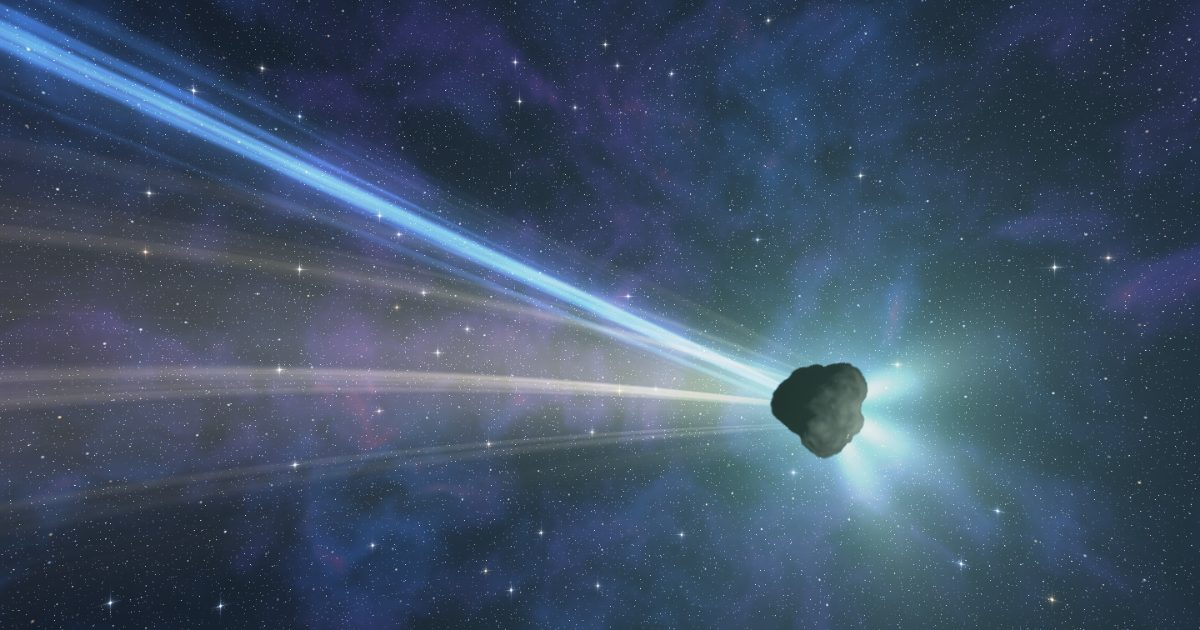
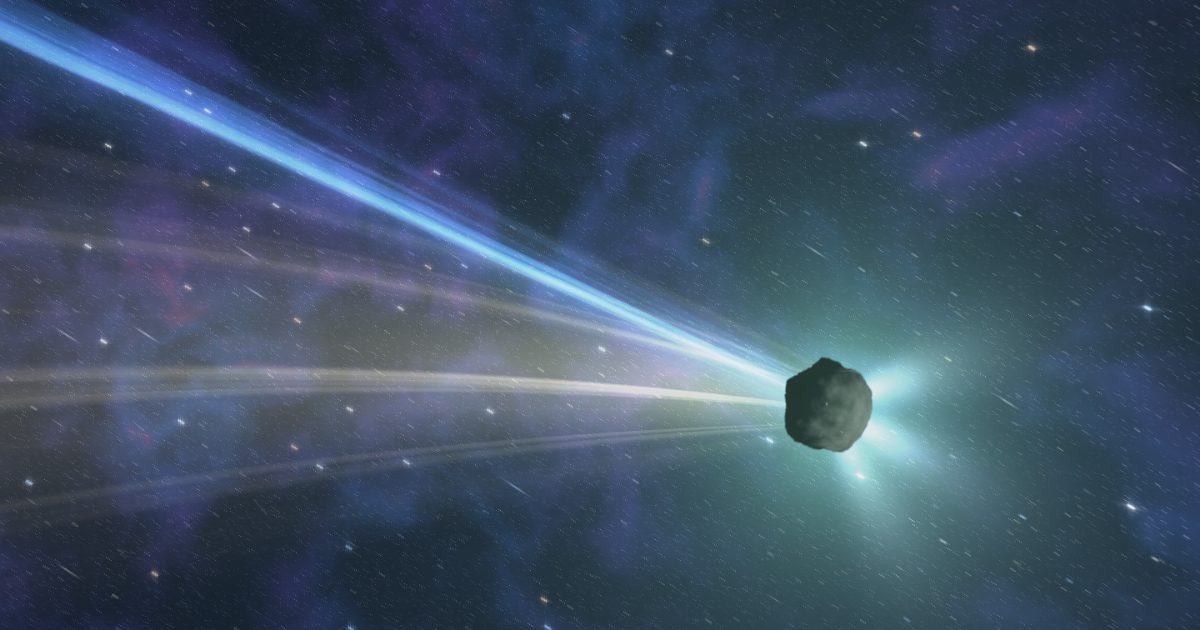
💄 style: Send the comet hurtling and give the nebula a lit foreground cliff

diff --git a/src/scene/scenes/nebula/shader.glsl.ts b/src/scene/scenes/nebula/shader.glsl.ts
@@ -10,6 +10,12 @@
  * D-196: more drama. Long dark lanes of dust wind through the glow, their edges that face the
  * heart lit gold and rose, the threads are finer and brighter, and the haze round the heart is thinner, so the darks are deeper.
  *
+ * D-197: depth. The cluster's light streams out through the cloud in rays, and the dust between a
+ * point and the heart casts it into shadow, so the gas reads as a volume lit from inside; near dust
+ * frames the edges darker and drifts slowly across, faster than the gas behind. Across the bottom
+ * rises a near wall of billowing gas and dust (a cliff, as in Carina's), its crest lit rose-gold by
+ * the cluster above, its body dark, steam rising off its edge; it moves most in a drag.
+ *
  * Nothing is drawn over it: no contours, no rings (D-094).
  *
  * Units: one unit is `uScale` CSS pixels; the cluster sits at the origin, y up.
@@ -102,6 +108,13 @@ float broad(vec2 p){
   return (noise(p) * 0.5 + noise(TURN * p + 17.1) * 0.25 + noise(TURN * TURN * p + 31.7) * 0.125) / 0.875;
 }
 
+/* the dust that blocks the cluster's light, cheap enough to sample along a ray toward the heart */
+float shade(vec2 p){
+  vec2 w = vec2(broad(p * 0.07 + 3.0), broad(p * 0.07 + 9.0)) - 0.5;
+  float lanes = 1.0 - abs(2.0 * broad(p * 0.19 + w * 1.6 + 120.0) - 1.0);
+  return smoothstep(0.45, 0.75, broad(p * 0.22 + w * 2.6 + 50.0)) + smoothstep(0.8, 0.97, lanes) * 0.8;
+}
+
 /* distance to a column of dust: a segment from its foot to its tip, thinning toward the tip */
 float column(vec2 p, vec2 foot, vec2 tip, float wide, float narrow){
   vec2 pa = p - foot, ba = tip - foot;
@@ -171,10 +184,23 @@ void main(){
 
   // ---- dust: soft dark drifts in front, never near the heart, never thin lines; the nearest
   // ones move more than the cloud in a drag (S4) ----
-  vec2 pn = (q - uPan * 0.35) / uScale;
+  vec2 pn = (q - uPan * 0.35) / uScale + vec2(t * 4.0, t * 1.2);
   float dust = smoothstep(0.52, 0.8, broad(p * 0.12 + w2 * 2.6 + 50.0)) * smoothstep(3.0, 10.0, rad);
   float nearDust = smoothstep(0.6, 0.85, broad(pn * 0.08 + 90.0)) * smoothstep(5.0, 14.0, rad);
-  col *= (1.0 - dust * 0.8) * (1.0 - nearDust * 0.65);
+  col *= (1.0 - dust * 0.8) * (1.0 - nearDust * 0.82);
+
+  // ---- D-197: the cluster's light through the cloud: shadows cast outward by the dust between
+  // here and the heart, and rays where the light gets through ----
+  float occ = 0.0;
+  for (int i = 1; i <= 12; i++) {
+    float f = float(i) / 12.0;
+    occ += shade(p * (1.0 - f * 0.9));
+  }
+  float trans = exp(-occ * 0.55);
+  float reach = exp(-rad * 0.09);
+  col *= 0.2 + 0.8 * mix(1.0, trans, smoothstep(1.5, 5.0, rad));
+  vec3 rayCol = mix(vec3(1.0, 0.62, 0.78), GOLD, 0.45);
+  col += rayCol * trans * reach * (0.18 + 0.4 * gas) * smoothstep(1.0, 4.0, rad);
 
   // ---- D-196: long dark lanes of dust winding through the glow, lit gold where they face the heart ----
   vec2 lp = p * 0.19 + w1 * 1.6 + w2 * 0.9;
@@ -220,6 +246,30 @@ void main(){
     float size = mix(0.8, 2.0, hash21(cell + 5.0));
     col += mix(HOT, vec3(1.0, 0.7, 0.85), hash21(cell + 2.0)) * (smoothstep(size * 1.5, 0.0, d) * 1.3 + size * size / (d * d + size * size * 3.0) * 0.5);
   }
+
+  // ---- D-197: the near cliff across the bottom, crest lit by the cluster, steam rising off it ----
+  vec2 pc = (q - uPan * 0.6) / uScale + vec2(t * 2.0, 0.0);
+  float crest = -3.0 + 1.7 * (broad(vec2(pc.x * 0.14, 3.0)) - 0.5) * 2.0 + 0.8 * (broad(vec2(pc.x * 0.5, 8.0)) - 0.5) * 2.0 + 0.9 * pow(broad(vec2(pc.x * 0.3, 15.0)), 4.0);
+  vec2 cw = vec2(broad(pc * 0.45 + 200.0), broad(pc * 0.45 + 210.0)) - 0.5;
+  float billow = fbm(pc * 0.7 + cw * 1.5 + 220.0);
+  float e = pc.y - crest + 0.9 * (billow - 0.5);          // above the crest > 0, inside the cliff < 0
+  float solid = smoothstep(0.12, -0.12, e);
+  // inside: dark dust with a little texture, lit only near its top
+  float depthIn = clamp(-e, 0.0, 4.0);
+  vec3 cliffBody = mix(vec3(0.05, 0.02, 0.05), vec3(0.32, 0.1, 0.22), exp(-depthIn * 1.3)) * (0.6 + 0.8 * fbm(pc * 1.6 + 240.0));
+  cliffBody += mix(vec3(1.0, 0.5, 0.62), GOLD, 0.5) * exp(-depthIn * 3.5) * 0.35 * billow;
+  // billows inside the wall, each rounded top catching the light from above
+  float lump = fbm(pc * 0.9 + 280.0);
+  float lumpBelow = fbm(pc * 0.9 + vec2(0.0, -0.18) + 280.0);
+  float lumpLit = clamp((lump - lumpBelow) * 7.0, 0.0, 1.0) * smoothstep(0.4, 0.65, lump);
+  cliffBody += mix(vec3(0.75, 0.3, 0.45), GOLD * 0.8, 0.3) * lumpLit * exp(-depthIn * 0.7) * 0.55;
+  col = mix(col, cliffBody, solid);
+  // the crest's lit edge, brightest facing the cluster
+  float lit = exp(-abs(e) / 0.14) * (0.6 + 0.8 * billow) * (0.5 + 0.5 * smoothstep(-6.0, 0.0, -abs(pc.x - 0.5)));
+  col += mix(vec3(1.0, 0.45, 0.62), GOLD, 0.6) * lit * 0.9;
+  // steam rising off the crest
+  float steam = fbm(vec2(pc.x * 1.4, pc.y * 0.5 - t * 6.0) + 260.0);
+  col += mix(vec3(1.0, 0.55, 0.75), vec3(0.6, 0.55, 1.0), 0.4) * smoothstep(0.5, 0.85, steam) * exp(-max(e, 0.0) / 0.9) * step(0.0, e) * 0.35;
 
   // a soft roll-off instead of a hard clip at white
   col = col / (1.0 + max(col - 0.8, 0.0) * 0.9);

diff --git a/src/scene/scenes/comet/index.tsx b/src/scene/scenes/comet/index.tsx
@@ -6,7 +6,9 @@
  * flowing, and a broad, curving, pale-gold one of dust. D-196: the head sits right of the middle
  * so the tails sweep the whole frame; the dust tail curves well away from the gas tail and is
  * fanned into fine striations; the gas tail kinks and streams; the coma is compact and a little
- * green, glowing over the nucleus too. One draw call, no particles. Its own colour family: ice
+ * green, glowing over the nucleus too. D-197: it hurtles: the nucleus tumbles, the stars stream
+ * past the other way, slightly drawn out, close grains of dust flash by, and the gas tail flows
+ * faster; a drag only shifts the view a little, it no longer swings the star and tails round. One draw call, no particles. Its own colour family: ice
  * blue, pale gold, white and a touch of green. Mounted by the host through the registry; never
  * imported by a page.
  */
@@ -41,16 +43,33 @@ void main(){
   vec2 size = uResolution / uDpr;
   // D-196: the head sits right of the middle and a little low, so the tails sweep the whole frame
   vec2 head = vec2(0.3, -0.12) * size.y / uScale;
-  vec2 u = q / uScale - head;   // the nucleus's radii, y up, from the nucleus
+  // D-197: a drag no longer swings the star round; it only shifts the view a little
+  vec2 pan = vec2(-uYaw, uPitch) * 0.08 * size.y / uScale;
+  vec2 u = q / uScale - head + pan;   // the nucleus's radii, y up, from the nucleus
   float r = length(u);
-  // a drag swings the star round a little, and the tails with it
-  float swing = uYaw * 0.5;
-  vec2 sun = vec2(cos(swing) * SUN.x - sin(swing) * SUN.y, sin(swing) * SUN.x + cos(swing) * SUN.y);
+  vec2 sun = SUN;
   vec2 away = -sun;
   vec2 side = vec2(-away.y, away.x);
 
   vec2 v = (css - size * 0.5) / size.y;
-  vec3 col = skyDeep(normalize(vec3(v * 1.4, -1.0)), 0.7) * 0.85;
+  // ---- hurtling (D-197): the stars stream past the other way, drawn out a little by the speed ----
+  vec2 travel = normalize(sun * 0.55 + vec2(-sun.y, sun.x) * 0.85);   // its way along its orbit, across the frame
+  vec2 sv = v + travel * t * 0.025 + vec2(uYaw, -uPitch) * 0.04;
+  vec3 col = vec3(0.0);
+  for (int k = 0; k < 4; k++) {
+    col += skyDeep(normalize(vec3((sv + travel * float(k) * 0.0025) * 1.4, -1.0)), 0.7);
+  }
+  col *= 0.85 / 4.0;
+  // grains of dust it passes, close by, flashing past as streaks
+  for (int k = 0; k < 2; k++) {
+    float fk = float(k);
+    vec2 gp = (v + travel * t * (0.35 + 0.25 * fk)) * (9.0 + 7.0 * fk);
+    vec2 gi = floor(gp);
+    float pick = step(0.93, hash3(vec3(gi, 4.0 + fk)));
+    vec2 gf = fract(gp) - 0.5 - (vec2(hash3(vec3(gi, 1.0)), hash3(vec3(gi, 2.0))) - 0.5) * 0.6;
+    float sa = dot(gf, travel), sc = dot(gf, vec2(-travel.y, travel.x));
+    col += mix(ICE, DUST, hash3(vec3(gi, 3.0))) * pick * exp(-sc * sc * 9000.0) * exp(-sa * sa * 60.0) * (0.35 - 0.12 * fk);
+  }
 
   float along = dot(u, away);
   float across = dot(u, side);
@@ -74,8 +93,8 @@ void main(){
     float ac = across - kink;
     float w = 0.25 + 0.045 * max(along, 0.0);
     float body = exp(-pow(ac / w, 2.0));
-    float streaks = fbm3(vec3(ac / w * 3.0, along * 0.04 - t * 0.15, 3.0));
-    float knots = fbm3(vec3(ac * 0.6, along * 0.1 - t * 0.4, 7.0));
+    float streaks = fbm3(vec3(ac / w * 3.0, along * 0.04 - t * 0.3, 3.0));
+    float knots = fbm3(vec3(ac * 0.6, along * 0.1 - t * 0.8, 7.0));
     float len = smoothstep(-0.5, 2.0, along) * exp(-max(along, 0.0) / 55.0);
     col += ION * body * len * (0.12 + 0.75 * smoothstep(0.45, 0.8, streaks) + 0.3 * knots);
     col += mix(ION, WHITE, 0.5) * exp(-pow(ac / (w * 0.18), 2.0)) * len * 0.25;
@@ -98,12 +117,14 @@ void main(){
   }
 
   // ---- the nucleus: a dark, lumpy body, lit from the star ----
-  float lump = 1.0 + 0.32 * (fbm3(vec3(cos(a) * 1.2, sin(a) * 1.2, t * 0.01)) - 0.5) * 2.0;
+  // it tumbles as it flies (D-197): its outline and face turn together
+  mat3 tumble = turnY(t * 0.45) * turnX(t * 0.31);
+  float lump = 1.0 + 0.32 * (fbm3(tumble * vec3(cos(a) * 1.2, sin(a) * 1.2, 0.0)) - 0.5) * 2.0;
   float rn = r / lump;
   float solid = smoothstep(1.0, 0.94, rn);   // 1 on the nucleus
   if (rn < 1.0) {
     vec3 n = vec3(u / lump, sqrt(1.0 - rn * rn));
-    vec3 p = turnY(t * 0.03) * n;
+    vec3 p = tumble * n;
     float crag = fbm3(p * 4.0);
     n = normalize(n + vec3((crag - 0.5) * 0.9, (fbm3(p * 4.0 + 7.0) - 0.5) * 0.9, 0.0));
     vec3 L = normalize(vec3(sun, 0.35));

diff --git a/context/DECISIONS.md b/context/DECISIONS.md
@@ -293,3 +293,4 @@ The owner clicked through S1: "Much better", then asked for the changes below, w
 | D-194 | **An Asteroid beside the Moon, not inside it (owner, 2026-11-24).** An Asteroid is now inside A Blue World (was inside Its Moon, D-133): the same tumbling rock, drawn in the planet's scene at the upper left (about 1.55 radii left of the planet, 0.7 up), opposite the moon at the upper right, lit by the same sun; it is the scene's second body and hotspot. The Moon's scene no longer draws it. Zoom Out from the Asteroid goes back to A Blue World. | The owner: "you can put the asteroid and moon on the same level". | Moving both into the Solar System's scene (the owner asked only that they share a level). |
 | D-195 | **A closer Moon, and a city-sized threat (owner, 2026-11-24).** (1) Its Moon is framed at min(0.3 × height, 0.2 × width) per radius (was 0.25 and 0.17), so it fills about three fifths of a laptop's height; larger touched the header. (2) An Asteroid's line, in the owner's words made true: "One smaller than a football stadium could wipe out a whole city." The Meteor Crater asteroid was "likely in the range of 100 to 170 feet (30 to 50 meters) across" and "A similar-size impact event today could destroy a city the size of Kansas City" (NASA Earth Observatory, "Arizona's Meteor Crater"); NASA calls 140 meters "larger than a small football stadium" (Near-Earth Object Observations Program); both checked 2026-11-24. The Chicxulub line and its source, NASA's "Asteroid Facts", are retired. | The owner: "the moon looks a little zoomed out"; the asteroid line should say "an asteroid the size of a football stadium can easily wipe out a city". | "The size of a football stadium … easily" as asked (no source says a stadium-sized rock, or "easily"; a smaller rock destroying a city is sourced and makes the same point). |
 | D-196 | **Six scenes refined and Its Black Hole (owner, 2026-11-24).** (1) **Nebula:** long, ragged dark lanes of dust wind through the glow (ridged noise, broken up, kept off the heart), their edges facing the heart lit rose-gold; the threads are finer and brighter; the gas threshold is higher and the haze round the heart halved, so the darks are deeper. (2) **A Comet:** the head sits right of the middle and a little low, so the tails sweep the frame; the dust tail swings well off the gas tail, curving, fanned into fine striations; the gas tail kinks and streams faster; the coma is compact and green-white (as many comets' are), glowing over the nucleus only faintly. (3) **A Molecular Cloud:** the baby stars were placed at +look while the dust is drawn at u + look, so a drag pulled them off the pillars; they now sit at their place minus look. The pillars are shaded as columns lit from up and left, their heads boil off in gold streamers, three hot young stars blaze high in the frame with faint spikes, the gas behind is more contrasted with lit upper edges, and a dark wisp of nearer dust crosses the lower right. (4) **A Red Giant** is framed at 0.4 × height (was 0.24) with smaller cells boiling inside the giant ones; **Quasi-Star** at 0.47 × height (was 0.24), larger than the red giant, with finer cells and grain. (5) **Its Black Hole** (`/quasi-star-black-hole`), inside the quasi-star (inner anchor `seed`, the heart): no sky, the star's ember gas spiralling in without end, the black shadow ringed by bent light, a thin blazing disc crossing in front (brighter on the approaching side) and its far side bent up over the shadow. Line: "A newborn black hole, feeding on and powering the star around it.", from the quasi-star's arXiv source ("a natal BH accretes mass from and energetically sustains (through accretion) an overlying gaseous envelope"). It shares the quasi-star's music. (6) **Neutron Star**'s line says how small it is: "About 20 km across; a sugar-cube-sized piece weighs about a billion tons." (NASA Imagine the Universe, "These stellar remnants measure about 20 kilometers (12.5 miles) across.", checked 2026-11-24); it stays small on screen, as the owner noted it should. | The owner: nebula and comet "feel slightly underwhelming"; the neutron star "supposed to be small, maybe say that in the message"; the molecular cloud "feels slightly lame" and its four light points could be dragged off the clouds; "make red giant also bigger"; "improve quasi star by making it bigger and allowing user to enter star and see the black hole inside it". | Dark globules in the nebula (round ones read as planets); a separate music loop for Its Black Hole. |
+| D-197 | **A hurtling comet and a nebula with depth (owner, 2026-11-24).** (1) **A Comet:** a drag no longer swings the star and tails round (it shifts the view a little); instead the comet hurtles toward its star: the nucleus tumbles on two axes, its outline turning with it; the stars stream past the other way, each drawn out slightly (four samples along the motion); close dust grains flash past as streaks at two speeds; the gas tail's streamers flow twice as fast. (2) **Nebula:** a near cliff of billowing gas and dust across the bottom of the frame (as in Carina's "cosmic cliffs"), its crest lit rose-gold by the cluster, billows inside it catching the light on their tops, steam rising off it, moving most in a drag; the cluster's light is shadowed by the dust between each point and the heart (twelve samples toward the heart) and streams out in faint rays where it gets through; the near dust at the edges is darker and drifts slowly. | The owner: for the comet "I should not be able to rotate it instead make it look like it is hurling across space (like rotate the rock part)"; "the nebula still feels flat". | Rays alone (they only darkened the edges); a continuous dolly through the nebula (it would break the fixed composition and the copy's calm corner). |

diff --git a/context/PROGRESS_TRACKER.md b/context/PROGRESS_TRACKER.md
@@ -86,6 +86,7 @@ Limits: draw calls on `low` under 30, scene chunks under 40 KB. Tests that need 
 - **2026-11-24 (scene refinement), D-194:** An Asteroid moved up a level: it tumbles past A Blue World on the left, opposite Its Moon, instead of past the Moon. **Checked:** `npm run check`, `npm run build`, `npm run shots` for the three routes, the built pages' links (A Blue World links to both; An Asteroid's Zoom Out goes to A Blue World; the Moon no longer links to it), posters re-rendered.
 - **2026-11-24 (scene refinement), D-195:** Its Moon framed closer (about three fifths of a laptop's height across); An Asteroid's line is now "One smaller than a football stadium could wipe out a whole city." (NASA Earth Observatory's Meteor Crater, NASA's Near-Earth Object Observations Program). **Checked:** `npm run check`, `npm run build`, `npm run shots` for both, posters re-rendered.
 - **2026-11-24 (scene refinement), D-196:** Six scenes: Nebula (winding dark dust lanes lit gold on the heart's side, finer threads, deeper darks); A Comet (head right of the middle, tails sweeping the frame, a curving striated dust tail apart from a kinked gas tail, a compact green-white coma); A Molecular Cloud (baby stars now stay in their pillars in a drag; shaded columns, gold streamers boiling off the heads, three hot stars high in the frame, a near dust wisp); A Red Giant and Quasi-Star larger with finer surface cells; a new place inside the quasi-star, Its Black Hole (52 places); Neutron Star's line now says it is about 20 km across. **Checked:** `npm run check`, `npm run build`, `npm run shots` for each route, posters re-rendered, the built quasi-star pages link down and back up.
+- **2026-11-24 (scene refinement), D-197:** A Comet hurtles: the nucleus tumbles, stars stream past drawn out by the speed, close dust grains flash by, the gas tail flows faster; a drag only shifts the view. Nebula has depth: a near cliff of billowing gas across the bottom with a lit crest and steam, the cluster's light casting shadows and rays through the cloud, darker drifting near dust at the edges. **Checked:** `npm run check`, `npm run build`, `npm run shots` for both, posters re-rendered.
 - **2026-11-24 (new place, probes), D-189:** The Last Civilization (a hibernating civilization round a dim white dwarf, in A Quasar Galaxy, with its own loop) and a redrawn Von Neumann Probes (a binary tree of self-copying probes eating a belt). 46 places. **Checked:** `npm run check`, `npm run build`, stills of both (awake and asleep; mid-tree and leaving) on laptop and phone, the new hotspot's place in the Quasar Galaxy, posters and share images rendered.
 - **2026-11-24 (small fixes), D-188:** Larger play icon; a drag turns every universe in the Multiverse; glass tooltips (`data-tip`) on the video and Sound buttons; the web and supervoid swap music. **Checked:** `npm run check`; live in Chrome: the Multiverse before and after a drag, both tooltips on hover.
 - **2026-11-24 (the ending), D-187:** Zoom Out past the Omniverse is now a cinematic ending: fade to black, the two lines rise out of a blur one after the other, then Return. The music key is read under `Music` or `MUSIC_KEY`. **Checked:** `npm run check`; live in Chrome: the ending at several moments, Return closes it, the Omniverse loop loads with the key under `MUSIC_KEY`.
